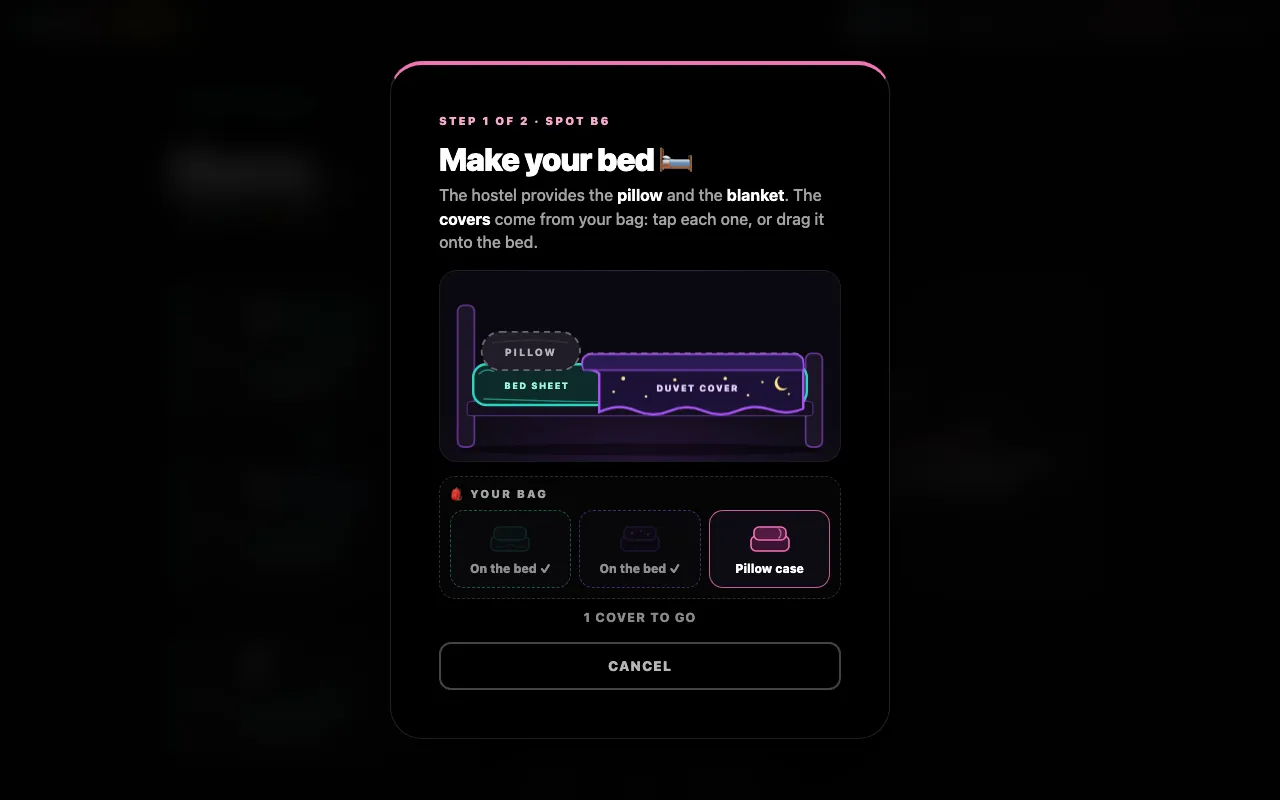
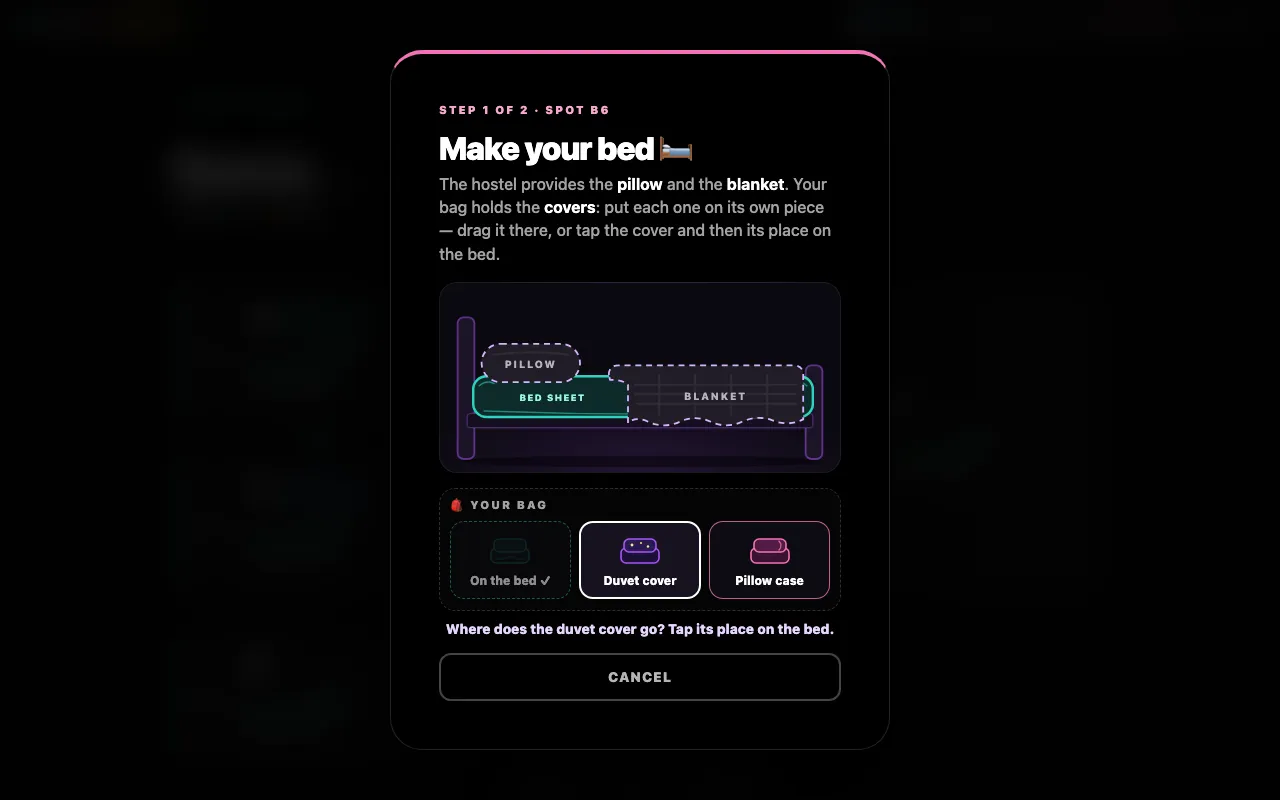
docs: each cover on its own piece in the booking guide
Step 5 of the guest guide explains the three pairs, picking a cover and
tapping its place, dragging and the keyboard; a FAQ entry for a cover that
won't go on the bed; the step-1 screenshot shows a cover in hand with its
question.

diff --git a/docs/guide/booking.md b/docs/guide/booking.md
@@ -58,11 +58,11 @@ flowchart LR
 
 5. <a id="make-your-bed"></a>**Make your bed**
 
-   The booking window starts with your bed. The hostel's pillow, blanket and mattress lie on it bare, and your three covers wait in **Your bag**: a bed sheet, a duvet cover and a pillowcase. Tap each cover, or drag it onto the bed: the duvet cover goes on the blanket, the pillowcase on the pillow, and the sheet slips under everything. Drop one on the wrong piece and it hops back into the bag with a hint.
+   The booking window starts with your bed. The hostel's pillow, blanket and mattress lie on it bare, and your three covers wait in **Your bag**: a bed sheet, a duvet cover and a pillowcase. Each cover only goes on its own piece: the **bed sheet on the mattress**, the **duvet cover on the blanket**, the **pillowcase on the pillow**. Drag a cover there, or tap it (it stands up in the bag) and then tap its place on the bed. The wrong piece shakes and says where the cover belongs — *That's the blanket! The bed sheet goes on the mattress.* — and the cover waits for the right one; a dragged cover hops back into the bag. Each cover that lands is named once more (*Bed sheet on the mattress ✓*), so you remember what to pack. With a keyboard: Enter on a cover, then Tab to its piece and Enter.
 
    When the bed is made, the window lists what to pack and <kbd>I'll pack them 🤝</kbd> takes you on. Pack them for real: pillow and blanket are provided, the covers are not. A sleeping bag is fine instead of the duvet cover; the bed sheet and the pillowcase are still a must.
 
-   ![Booking window, step 1: the bare bed and the three covers in your bag](../assets/screenshots/guest-booking-bed.webp)
+   ![Booking window, step 1: the bed sheet already on the mattress, the duvet cover in hand and the question where it goes](../assets/screenshots/guest-booking-bed.webp)
 
 6. **Pick a burner name, tick the rules and book**
 

diff --git a/docs/guide/faq.md b/docs/guide/faq.md
@@ -26,6 +26,10 @@ CozyNights couldn't reach its database for a moment. Your code is fine. Try agai
 Pillow and blanket are provided. Bring your own covers: a **bed sheet** for the mattress, a **duvet cover** for the blanket and a **pillowcase**. A sleeping bag is fine instead of the duvet cover; the bed sheet and the pillowcase are still a must. Your booking pass and every e-mail about your spot say it again, for when you pack.
 :::
 
+::: details My cover won't go on the bed / hops back into the bag
+Every cover only goes on its own piece: the **bed sheet on the mattress** (the part under the pillow), the **duvet cover on the blanket**, the **pillowcase on the pillow**. Tap the cover, then its piece — or drag it straight there. The line under your bag says where a cover belongs when you try the wrong piece.
+:::
+
 ::: details Why do I have to make my bed every time I book?
 Many guests are at Hamburn for the first time, and a bed without covers is a cold night. So every booking starts with making your bed and ends with a tick that you have read the Code of Conduct, the privacy policy and the booking rules — also when you move to another spot. Nothing about it is stored. If a booking didn't go through because someone was faster, the next spot you pick keeps your made bed and your tick, until you reload the page.
 :::
